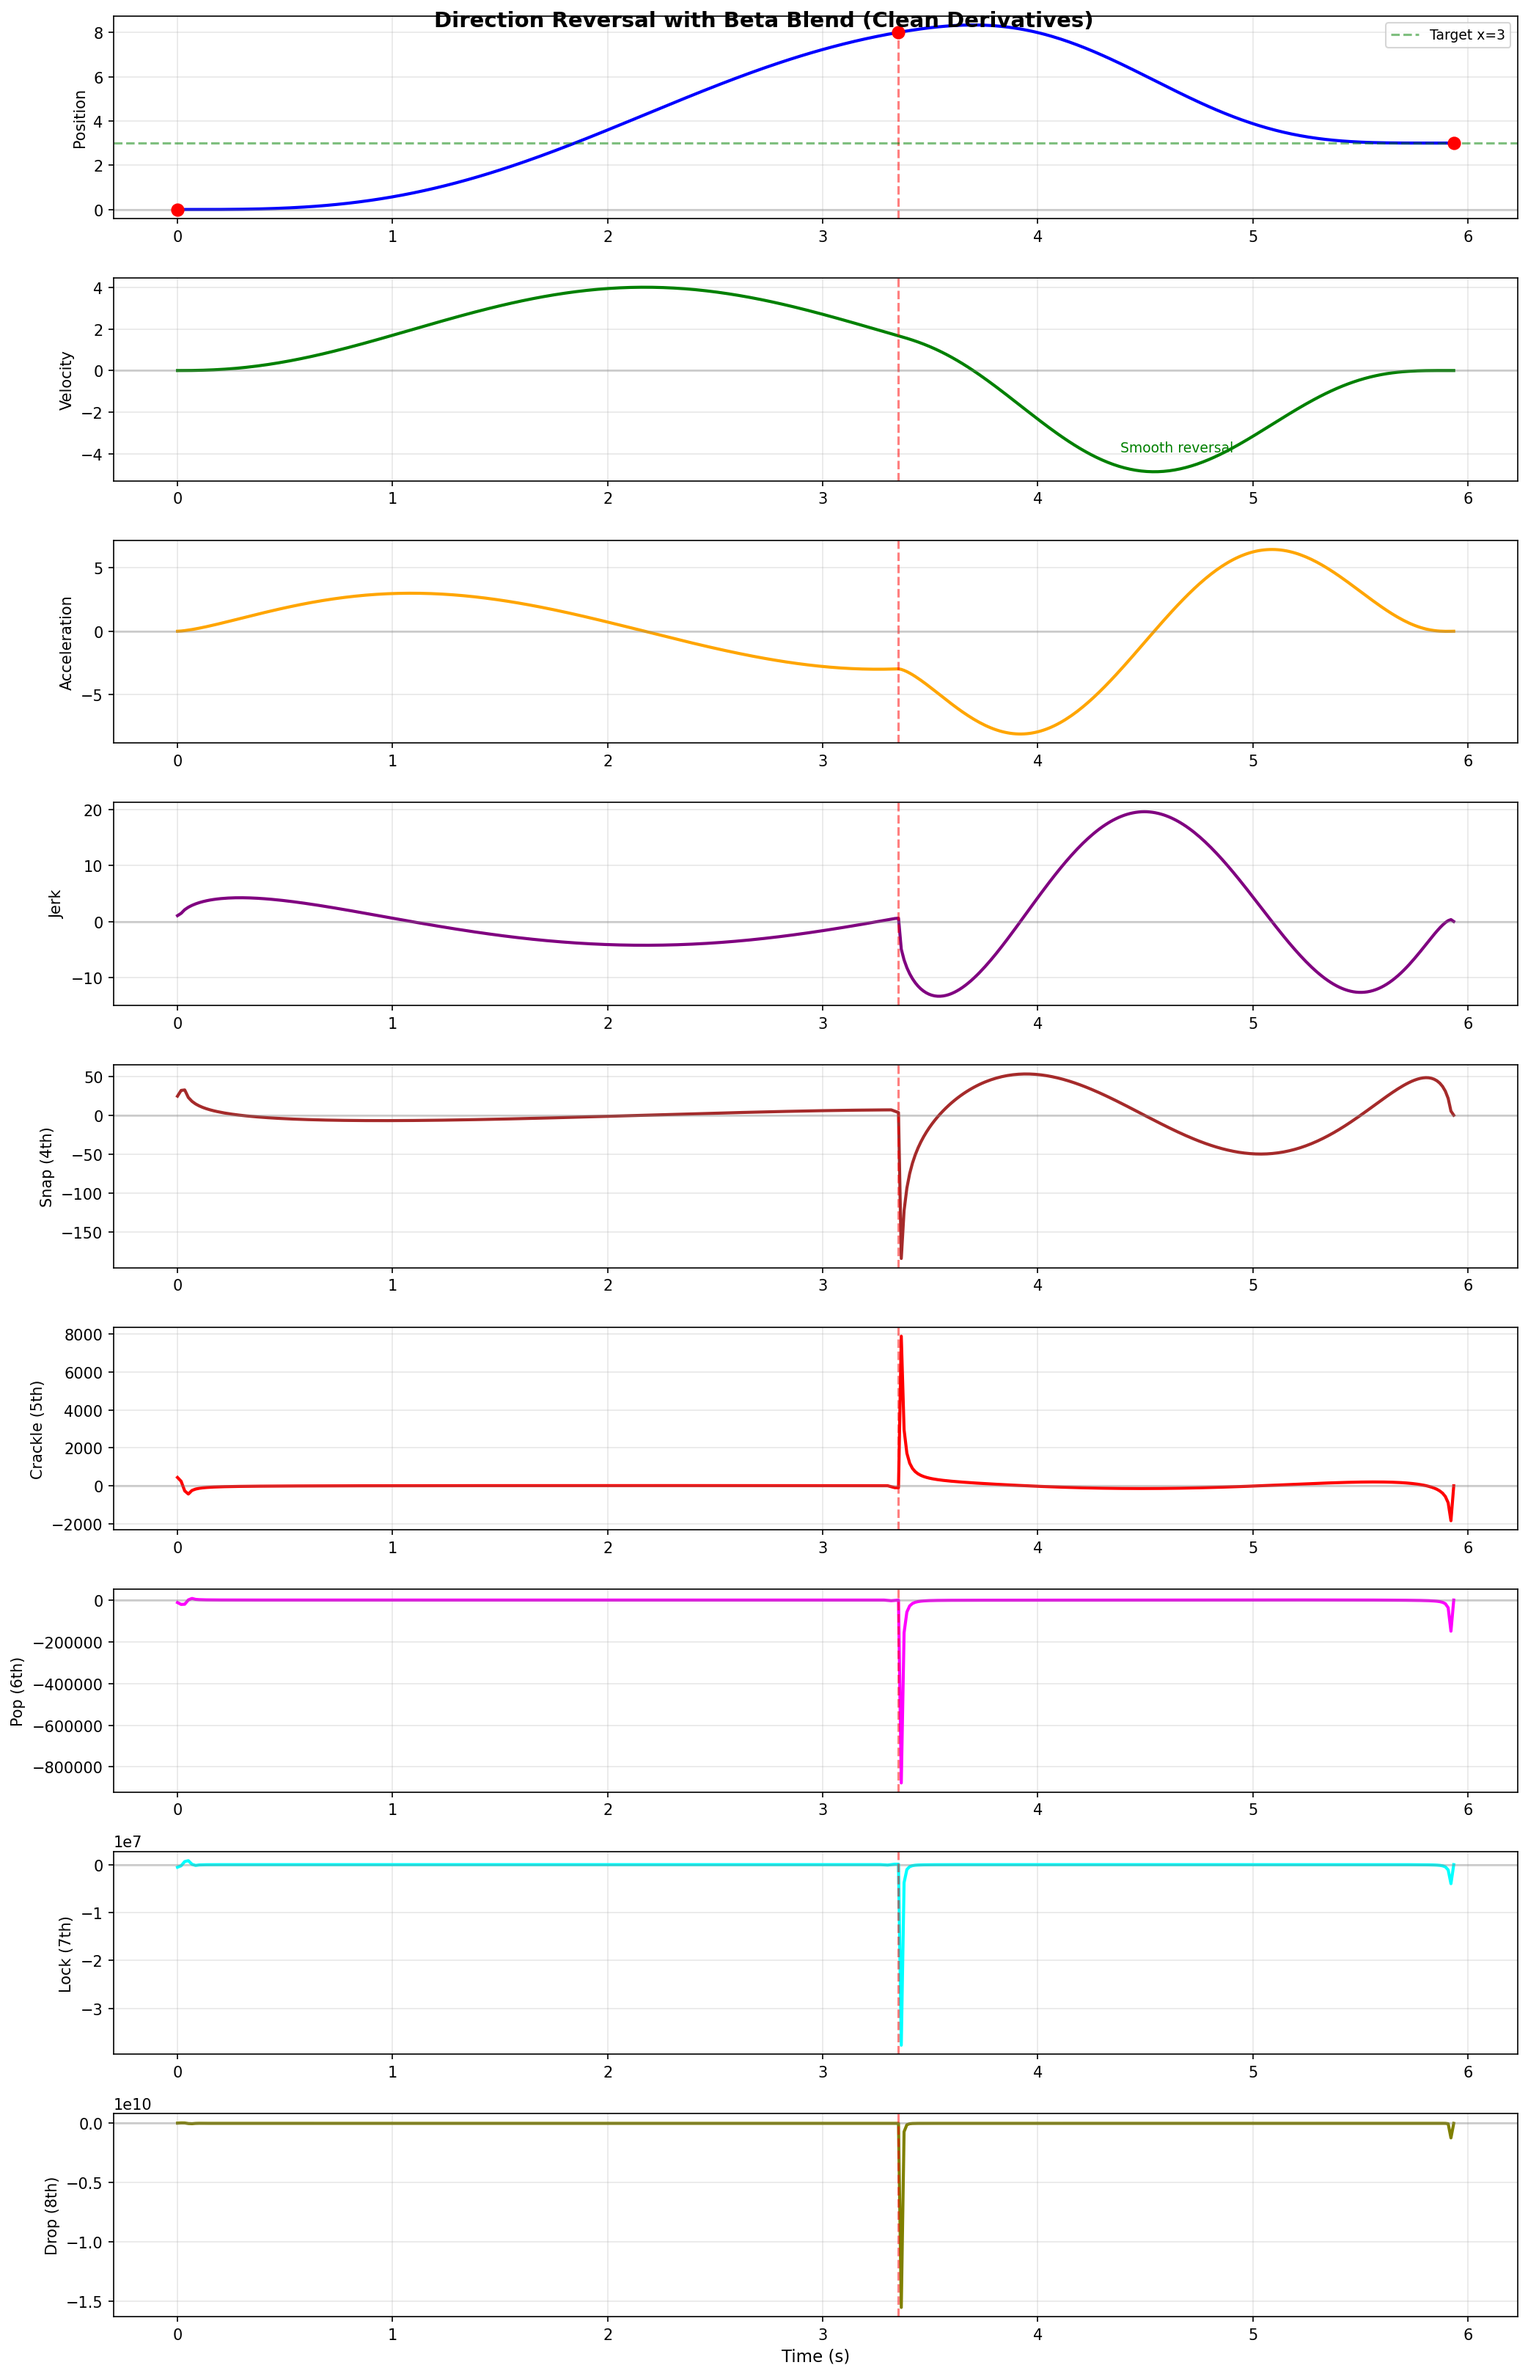
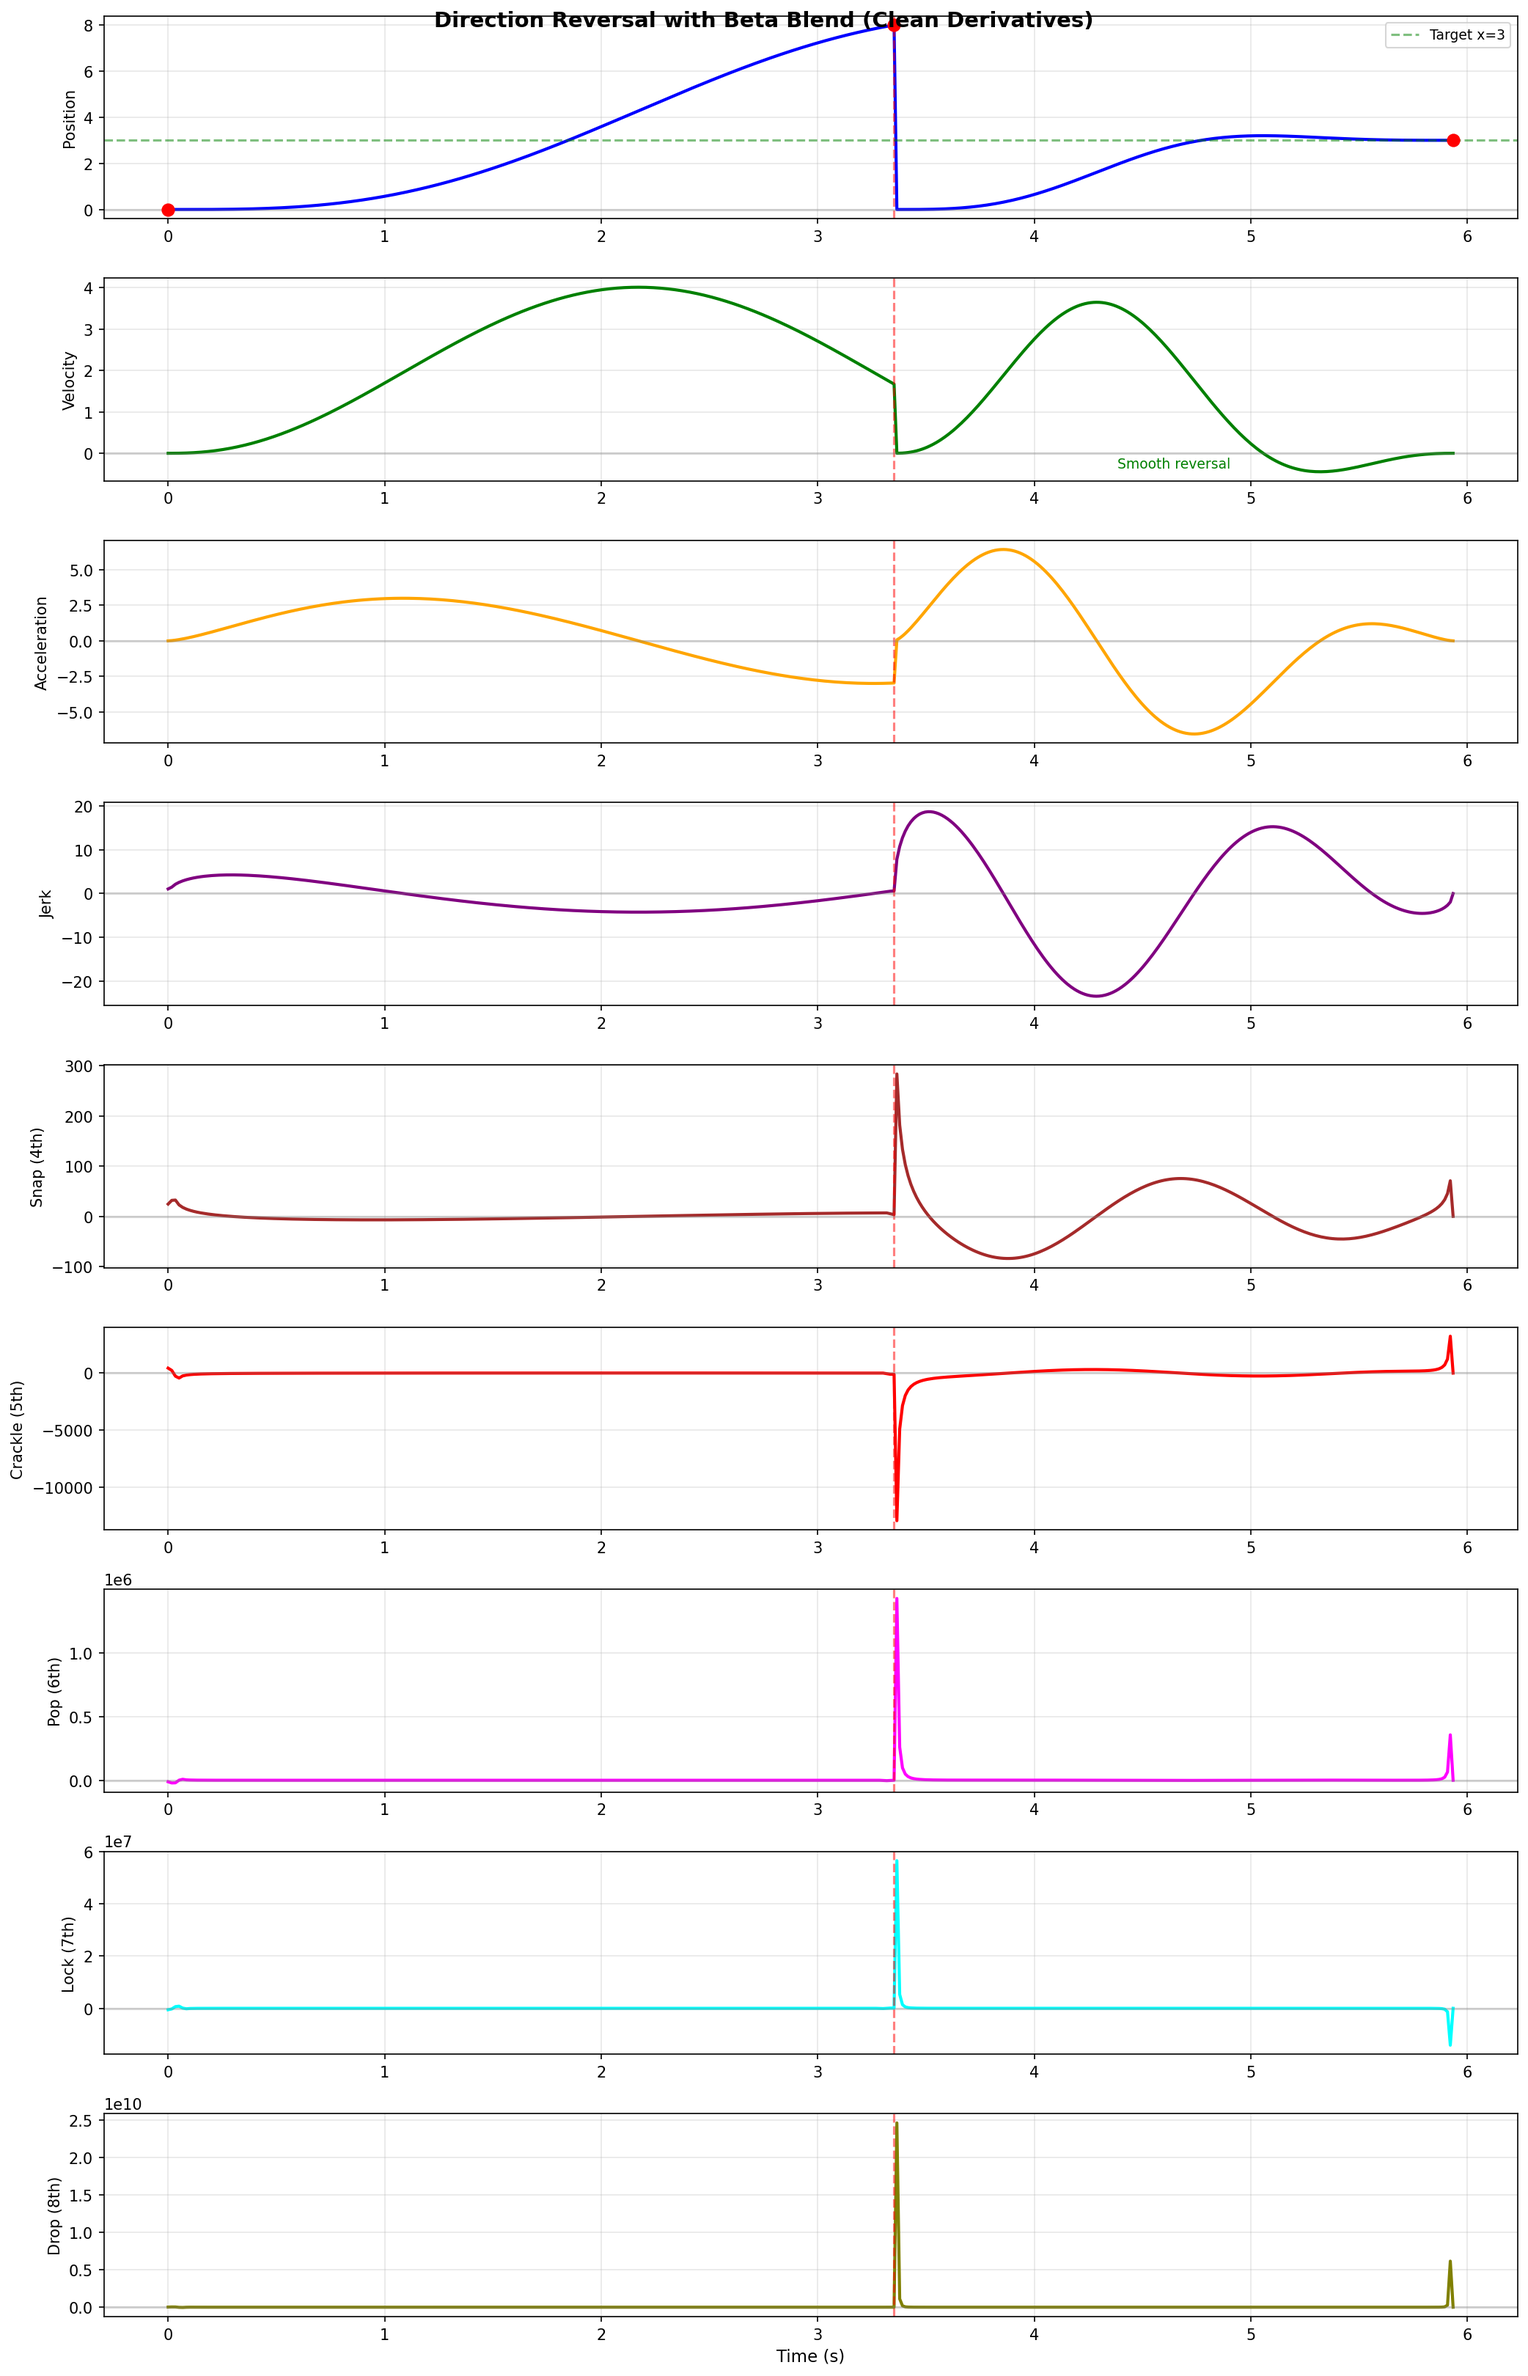
Implement two-beta Curve Blend with separate time scales
Changes:
- Add T_new computation based on distance/velocity/acceleration constraints
- For blend mode: T = max(T_remaining_orig, T_new)
- β₁ fades out x_orig over T_remaining_orig
- β₂ fades in x_new over T_new
- Handle t > T_new case (x_new stays at target)
- Both products use Leibniz rule independently

Results show that two-beta Curve Blend has LARGER derivatives than
Space Shift, not smaller. The additional Leibniz terms from two
products outweigh the benefit of separate time scales.

Space Shift remains the better choice for bounded higher derivatives
since it only has one product term (shift × β) where shift is constant.

diff --git a/src/scurvebeta/generalized.py b/src/scurvebeta/generalized.py
@@ -1239,11 +1239,24 @@ class BetaBlendMotion:
             self.original_T = T
             self.T_remaining_orig = T
 
-        # Set initial T
-        self.T = max(T, 0.01)
+        # Compute T_new: optimal duration for new S-curve to reach target
+        # This is based on distance and constraints (like plan_motion does)
+        delta_x_new = abs(x_target - x0)
+        if delta_x_new > 1e-10:
+            T_vmax = 2 * delta_x_new / self.robotVmax if self.robotVmax < float('inf') else 1.0
+            T_amax = 2 * sqrt(delta_x_new / self.robotAmax) if self.robotAmax < float('inf') else T_vmax
+            self.T_new = max(T_vmax, T_amax, 0.5)
+        else:
+            self.T_new = 0.5  # Minimum duration
 
-        # Find optimal T that respects constraints
-        self.T = self._find_optimal_T(self.T)
+        if mode == 'blend':
+            # For two-beta blend: T is simply the max of the two independent durations
+            # No optimization needed since each curve has its natural timing
+            self.T = max(self.T_remaining_orig, self.T_new)
+        else:
+            # For shift mode: use the optimization approach
+            self.T = max(T if T is not None else 0, self.T_remaining_orig, self.T_new, 0.01)
+            self.T = self._find_optimal_T(self.T)
 
     def _find_optimal_T(self, T_initial):
         """Find optimal T that respects velocity constraints."""
@@ -1428,18 +1441,23 @@ class BetaBlendMotion:
         Compute x_new(t) and its derivatives ANALYTICALLY.
 
         x_new is a rest-to-rest S-curve from x0 to x_target.
-        τ(t) = -1 + 2*t/T, so dτ/dt = 2/T (constant)
+        For blend mode: uses T_new as duration (its natural time scale)
+        For shift mode: uses T as duration
+
+        After T_new, x_new stays at x_target with all derivatives = 0.
         """
         t = np.asarray(t, dtype=float)
-        T = self.T
 
-        # τ(t) = -1 + 2*t/T
-        tau = -1 + 2 * (t / T)
+        # Use T_new for blend mode, T for shift mode
+        T_curve = self.T_new if self.mode == 'blend' else self.T
+
+        # τ(t) = -1 + 2*t/T_curve, clamped to [-1, 1]
+        tau = -1 + 2 * (t / T_curve) if T_curve > 0 else np.ones_like(t)
         tau = np.clip(tau, -1, 1)
 
-        tau_dot = 2 / T if T > 0 else 0
+        tau_dot = 2 / T_curve if T_curve > 0 else 0
 
-        # For rest-to-rest: S = (x_target - x0) / 1.0 = x_target - x0
+        # For rest-to-rest: S = x_target - x0
         S = self.x_target - self.x0
 
         # Get f and all its derivatives at τ
@@ -1448,7 +1466,15 @@ class BetaBlendMotion:
         # x_new^(k) = S * f^(k)(τ) * τ_dot^k + (x0 if k==0 else 0)
         derivs = []
         for k in range(max_order + 1):
-            derivs.append(S * f_derivs[k] * (tau_dot ** k) + (self.x0 if k == 0 else 0))
+            val = S * f_derivs[k] * (tau_dot ** k) + (self.x0 if k == 0 else 0)
+            # After T_new, x_new = x_target with all derivatives = 0
+            if self.mode == 'blend':
+                past_T_new = t > T_curve
+                if k == 0:
+                    val = np.where(past_T_new, self.x_target, val)
+                else:
+                    val = np.where(past_T_new, 0.0, val)
+            derivs.append(val)
 
         return derivs
 
@@ -1459,9 +1485,13 @@ class BetaBlendMotion:
         TWO MODES:
 
         Space Shift: x(t) = x_orig(t) + [x_target - x_orig_end] × β(s)
-        Curve Blend: x(t) = x_orig(t) × (1-β) + x_new(t) × β
+            - Single β over duration T
 
-        Both use x_orig (original S-curve continuation), NOT Taylor series!
+        Curve Blend: x(t) = x_orig(t) × (1-β₁) + x_new(t) × β₂
+            - β₁ goes 0→1 over T_orig_remaining (fades OUT x_orig)
+            - β₂ goes 0→1 over T_new (fades IN x_new)
+            - Different time scales prevent derivative explosion!
+
         Uses the generalized Leibniz rule for derivatives of products.
         """
         t = np.asarray(t, dtype=float)
@@ -1469,47 +1499,71 @@ class BetaBlendMotion:
         t = np.atleast_1d(t)
         t = np.clip(t, 0, self.T)
 
-        T = self.T
-        s = t / T
-
-        # Get β(s) and all its derivatives w.r.t. s
-        beta_derivs_s = _beta_s_derivatives(s, max_order=order)
-
-        # Convert to derivatives w.r.t. t: β^(k)_t = β^(k)_s / T^k
-        beta_derivs = [bd / (T ** k) if T > 0 else (bd if k == 0 else np.zeros_like(t))
-                       for k, bd in enumerate(beta_derivs_s)]
-
-        # Get original S-curve derivatives (continuation of original motion)
-        orig_derivs = self._get_orig_curve_derivatives(t, order)
-
         if self.mode == 'shift':
             # Space Shift: x(t) = x_orig(t) + shift × β(s)
-            # where shift = x_target - x_orig_end (constant)
-            shift = self.x_target - self.x_orig_end
+            T = self.T
+            s = t / T
+            beta_derivs_s = _beta_s_derivatives(s, max_order=order)
+            beta_derivs = [bd / (T ** k) if T > 0 else (bd if k == 0 else np.zeros_like(t))
+                           for k, bd in enumerate(beta_derivs_s)]
 
-            # x^(n) = x_orig^(n) + shift × β^(n)
-            # (shift is constant, so its derivatives are 0)
+            orig_derivs = self._get_orig_curve_derivatives(t, order)
+            shift = self.x_target - self.x_orig_end
             result = orig_derivs[order] + shift * beta_derivs[order]
 
         else:  # mode == 'blend'
-            # Curve Blend: x(t) = x_orig(t) × (1-β) + x_new(t) × β
-            #            = x_orig(t) + (x_new(t) - x_orig(t)) × β
-            #            = x_orig(t) + Δx(t) × β
+            # Curve Blend with TWO separate betas:
+            # x(t) = x_orig(t) × (1-β₁) + x_new(t) × β₂
 
-            # Get new S-curve derivatives
+            # β₁: fades out x_orig over T_orig_remaining
+            T1 = self.T_remaining_orig
+            s1 = np.clip(t / T1, 0, 1) if T1 > 0 else np.ones_like(t)
+            beta1_derivs_s = _beta_s_derivatives(s1, max_order=order)
+            beta1_derivs = [bd / (T1 ** k) if T1 > 0 else (bd if k == 0 else np.zeros_like(t))
+                            for k, bd in enumerate(beta1_derivs_s)]
+            # For t > T1, β₁ = 1, all derivatives = 0
+            past_T1 = t > T1
+            for k in range(len(beta1_derivs)):
+                if k == 0:
+                    beta1_derivs[k] = np.where(past_T1, 1.0, beta1_derivs[k])
+                else:
+                    beta1_derivs[k] = np.where(past_T1, 0.0, beta1_derivs[k])
+
+            # β₂: fades in x_new over T_new
+            T2 = self.T_new
+            s2 = np.clip(t / T2, 0, 1) if T2 > 0 else np.ones_like(t)
+            beta2_derivs_s = _beta_s_derivatives(s2, max_order=order)
+            beta2_derivs = [bd / (T2 ** k) if T2 > 0 else (bd if k == 0 else np.zeros_like(t))
+                            for k, bd in enumerate(beta2_derivs_s)]
+            # For t > T2, β₂ = 1, all derivatives = 0
+            past_T2 = t > T2
+            for k in range(len(beta2_derivs)):
+                if k == 0:
+                    beta2_derivs[k] = np.where(past_T2, 1.0, beta2_derivs[k])
+                else:
+                    beta2_derivs[k] = np.where(past_T2, 0.0, beta2_derivs[k])
+
+            # Get curve derivatives
+            orig_derivs = self._get_orig_curve_derivatives(t, order)
             new_derivs = self._get_new_curve_derivatives(t, order)
 
-            # Δx^(k) = x_new^(k) - x_orig^(k)
-            delta_derivs = [new_derivs[k] - orig_derivs[k] for k in range(order + 1)]
+            # (1-β₁) derivatives: d^n/dt^n (1-β₁) = -β₁^(n) for n≥1
+            one_minus_beta1 = [1 - beta1_derivs[0]] + [-beta1_derivs[k] for k in range(1, order + 1)]
 
-            # Use Leibniz rule: (Δx × β)^(n) = Σ C(n,k) × Δx^(k) × β^(n-k)
+            # Use Leibniz rule for both products
             from math import comb
-            product_deriv = np.zeros_like(t)
-            for k in range(order + 1):
-                product_deriv += comb(order, k) * delta_derivs[k] * beta_derivs[order - k]
 
-            # x^(n) = x_orig^(n) + (Δx × β)^(n)
-            result = orig_derivs[order] + product_deriv
+            # Term 1: x_orig × (1-β₁)
+            term1 = np.zeros_like(t)
+            for k in range(order + 1):
+                term1 += comb(order, k) * orig_derivs[k] * one_minus_beta1[order - k]
+
+            # Term 2: x_new × β₂
+            term2 = np.zeros_like(t)
+            for k in range(order + 1):
+                term2 += comb(order, k) * new_derivs[k] * beta2_derivs[order - k]
+
+            result = term1 + term2
 
         return float(result[0]) if scalar else result
 
